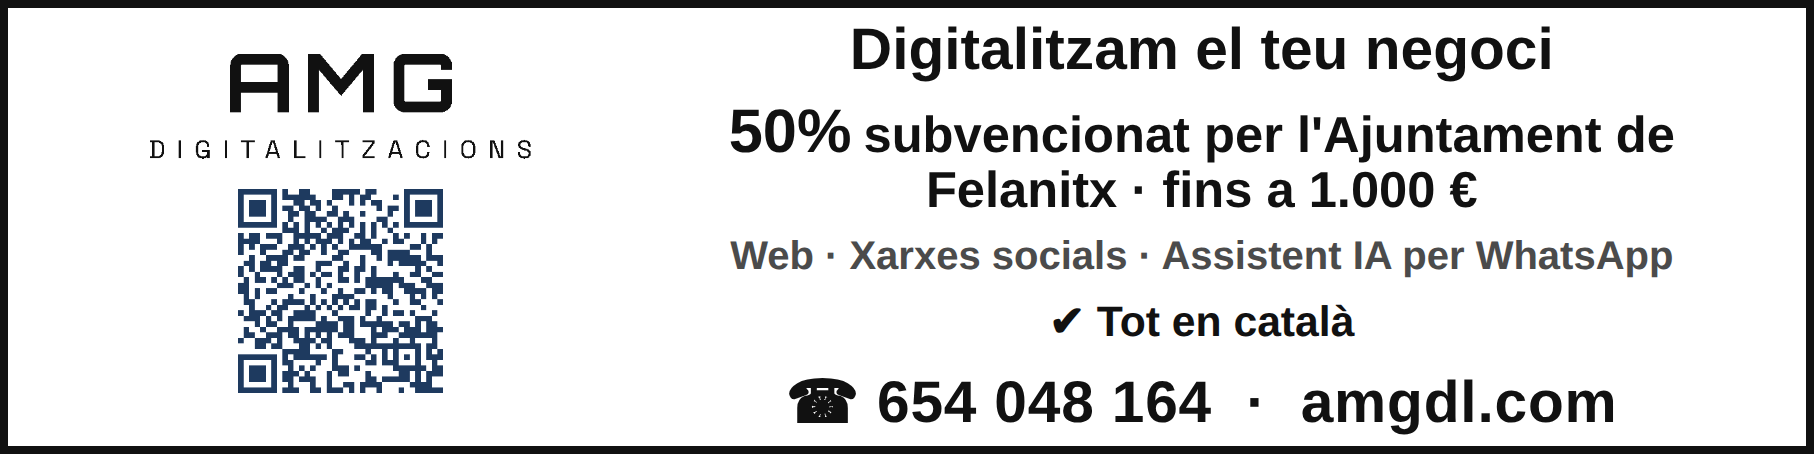
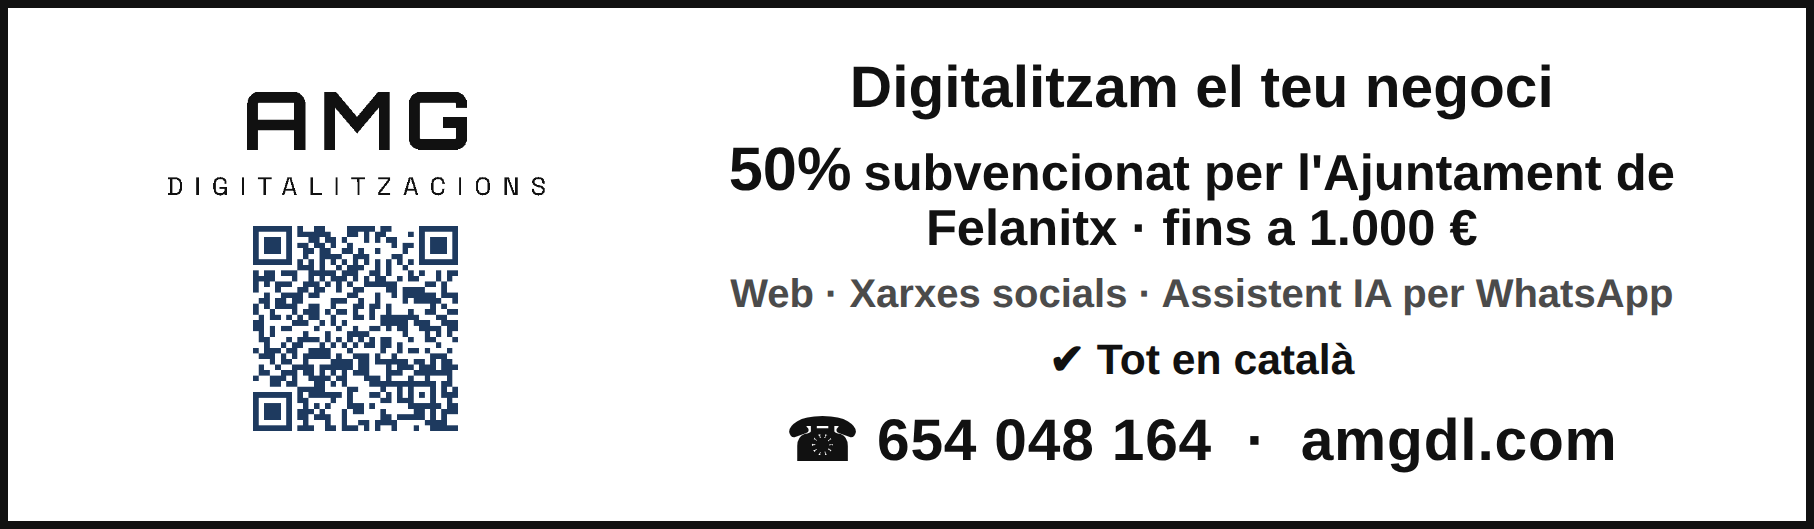
docs: anuncis més alts (120x35mm) amb més marge intern per respirar

diff --git a/docs/anunci-ajut-ajuntament-felanitx.html b/docs/anunci-ajut-ajuntament-felanitx.html
@@ -11,8 +11,8 @@
   body { font-family:-apple-system,'Segoe UI',Roboto,sans-serif; display:flex; justify-content:center; padding:20px; }
 
   .anunci {
-    width:120mm; height:30mm; background:#fff; border:2px solid #111;
-    display:flex; align-items:center; gap:5mm; padding:2.5mm 5mm; overflow:hidden;
+    width:120mm; height:35mm; background:#fff; border:2px solid #111;
+    display:flex; align-items:center; gap:5mm; padding:4mm 6mm; overflow:hidden;
   }
   .left { flex-shrink:0; display:flex; flex-direction:column; align-items:center; gap:1mm; }
   .left .logo { width:34mm; height:7.5mm;
@@ -33,7 +33,7 @@
     .anunci { border:2px solid #111; }
     * { -webkit-print-color-adjust:exact; print-color-adjust:exact; }
   }
-  @page { size:120mm 30mm; margin:0; }
+  @page { size:120mm 35mm; margin:0; }
 </style>
 </head>
 <body>

diff --git a/docs/anunci-amg-general.html b/docs/anunci-amg-general.html
@@ -11,8 +11,8 @@
   body { font-family:-apple-system,'Segoe UI',Roboto,sans-serif; display:flex; justify-content:center; padding:20px; }
 
   .anunci {
-    width:120mm; height:30mm; background:#fff; border:2px solid #111;
-    display:flex; align-items:center; gap:5mm; padding:2.5mm 5mm; overflow:hidden;
+    width:120mm; height:35mm; background:#fff; border:2px solid #111;
+    display:flex; align-items:center; gap:5mm; padding:4mm 6mm; overflow:hidden;
   }
   .left { flex-shrink:0; display:flex; flex-direction:column; align-items:center; gap:1mm; }
   .left .logo { width:34mm; height:7.5mm;
@@ -33,7 +33,7 @@
     .anunci { border:2px solid #111; }
     * { -webkit-print-color-adjust:exact; print-color-adjust:exact; }
   }
-  @page { size:120mm 30mm; margin:0; }
+  @page { size:120mm 35mm; margin:0; }
 </style>
 </head>
 <body>
